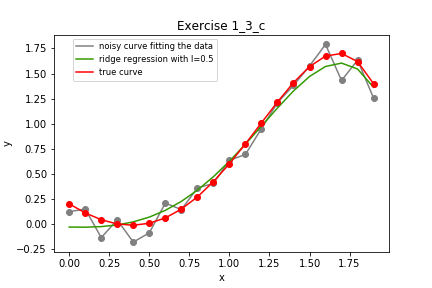
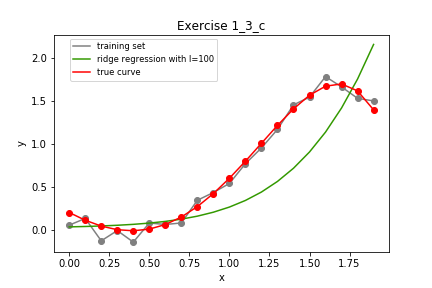
better code. Fixed 12
better code. Fixed 12

diff --git a/exercise1_3.py b/exercise1_3.py
@@ -1,6 +1,7 @@
 import numpy 
 import matplotlib.pyplot as plt 
 import random
+import os
 
 def print_figure(figure_name):
     
@@ -19,7 +20,8 @@ def ridge_regression(X, Y, l):
     theta = numpy.dot(numpy.dot(numpy.linalg.inv(XX_transpose + l*numpy.identity(XX_transpose.__len__())), numpy.transpose(X)), Y) 
     return theta
 
-def exercise1_3(N, test, L_list, mu, sigma_square, theta_0):
+def exercise1_3(N, N_test, l_list, mu, sigma_square, theta_0):
+    
     N_points = numpy.arange(0, 2, 2/float(N))
     
     X = []
@@ -29,28 +31,25 @@ def exercise1_3(N, test, L_list, mu, sigma_square, theta_0):
 
     Y_true = numpy.dot(X, theta_0)
 
-    Y_0 = numpy.dot(X, theta_0) + numpy.random.normal(mu, sigma_square, X.__len__())
-
-    for i in range(0, L_list.__len__()):
-
-        theta = ridge_regression(X, Y_0, L_list[i])
-       
-        Y_ridge = numpy.dot(X, theta)
-       
-        X_test = []
+    Y_training = numpy.dot(X, theta_0) + numpy.random.normal(mu, sigma_square, X.__len__())
+    
+    X_test = []
         
-        for m in range(0, test):
-            x = random.choice(N_points)
-            X_test.append([1, x, x**2, x**3, x**4, x**5])
-    
-        Y_0_test = numpy.dot(X_test, theta_0) + numpy.random.normal(mu, sigma_square, X_test.__len__())
-    
+    for i in range(0, N_test):
+        x = random.uniform(0, 2)
+        X_test.append([1, x, x**2, x**3, x**4, x**5])
+        
+    Y_training_test = numpy.dot(X_test, theta_0) + numpy.random.normal(mu, sigma_square, X_test.__len__())
+
+    for i in range(0, l_list.__len__()):
+
+        theta = ridge_regression(X, Y_training, l_list[i])
+        Y_ridge_regression = numpy.dot(X, theta)
         Y_test = numpy.dot(X_test, theta)
-        
     
         #find mean square error
-        mse1 = sum((Y_0 - Y_ridge)**2)/20
-        mse2 = sum((Y_test - Y_0_test)**2)/1000
+        mse1 = sum((Y_training - Y_ridge_regression)**2)/N
+        mse2 = sum((Y_training_test - Y_test)**2)/N_test
     
         print(mse1)
         print(mse2)
@@ -58,9 +57,9 @@ def exercise1_3(N, test, L_list, mu, sigma_square, theta_0):
         plt.title('Exercise 1_3_' + chr(ord('`') + (i + 1)))
         plt.xlabel('x')
         plt.ylabel('y')
-        plt.plot(N_points, Y_0, label='noisy curve fitting the data', color='grey')
-        plt.plot(N_points, Y_0, 'o', color='grey')
-        plt.plot(N_points, Y_ridge, label='ridge regression with l=' + str(+L_list[i]), color='#339900')
+        plt.plot(N_points, Y_training, label='training set', color='grey')
+        plt.plot(N_points, Y_training, 'o', color='grey')
+        plt.plot(N_points, Y_ridge_regression, label='ridge regression with l=' + str(+l_list[i]), color='#339900')
         plt.plot(N_points, Y_true, label='true curve', color='red')
         plt.plot(N_points, Y_true, 'o', color='red')
     
@@ -71,6 +70,6 @@ def exercise1_3(N, test, L_list, mu, sigma_square, theta_0):
 
 
 
-exercise1_3(20, 1000, [0.2,0.005, 0.5], 0, 0.1, [0.2, -1, 0.9, 0.7, 0, -0.2])
+exercise1_3(20, 1000, [0.000006, 0.1, 100], 0, 0.1, [0.2, -1, 0.9, 0.7, 0, -0.2])
 
 

diff --git a/exercise1_2.py b/exercise1_2.py
@@ -1,8 +1,9 @@
 import numpy 
 import matplotlib.pyplot as plt 
 import random
+import os
 
-#79-81
+#check page 79-81 for report
 
 def column(matrix, i):
     return [row[i] for row in matrix]
@@ -27,7 +28,7 @@ def exercise1_2(N, test, experiments, mu, sigma_square, theta_0):
     #Generate N equidistant value points in the interval [0, N]
     N_points = numpy.arange(0, 2, 2/float(N))
     
-    #create X using the N points in the interval [0, N] and do regression using 5th degree pol
+    #create X using the N points in the interval [0, N] 
     X = []
     for i in range(0, N):
         x = N_points[i]
@@ -36,7 +37,7 @@ def exercise1_2(N, test, experiments, mu, sigma_square, theta_0):
     #get true Y
     Y_true = numpy.dot(X, theta_0)
 
-    #create X_2 using the N points in the interval [0, N] and do regression using 2th degree pol for 100 times
+    #create X_2 using the N points in the interval [0, N] 
     X_2 = []
     for i in range(0, 20):
         x = N_points[i]
@@ -49,9 +50,9 @@ def exercise1_2(N, test, experiments, mu, sigma_square, theta_0):
         Y_2.append(numpy.dot(X_2, least_squares(X_2, Y_noisy)))
 
     Y_avg2 = numpy.average(Y_2, axis=0)
-    Y_var2 = numpy.var(Y_2, axis=0)
+    Y_var2 = numpy.std(Y_2, axis = 0)
 
-    #create X_10 using the N points in the interval [0, N] and do regression using 10th degree pol for 100 times
+    #create X_10 using the N points in the interval [0, N] 
     X_10 = []
     for i in range(0, 20):
         x = N_points[i]
@@ -64,30 +65,18 @@ def exercise1_2(N, test, experiments, mu, sigma_square, theta_0):
         Y_10.append(numpy.dot(X_10, least_squares(X_10, Y_noisy)))
 
     Y_avg10 = numpy.average(Y_10, axis = 0)
-    Y_var10 = numpy.var(Y_10, axis = 0)
+    Y_var10 = numpy.std(Y_10, axis = 0)
+    
+    print(Y_var10)
 
     plt.title('Exercise 1_2')
     plt.xlabel('x')
     plt.ylabel('y')
-    plt.plot(N_points, Y_2[20], color='#000040')
-    plt.plot(N_points, Y_2[40], color='#000060')
-    plt.plot(N_points, Y_2[60], color='#000080')
-    plt.plot(N_points, Y_2[80], color='#0000A0')
-    plt.plot(N_points, Y_2[99], color='#0033FF')
 
     plt.plot(N_points, Y_avg2, label='average Y 2nd degree pol', color='#000099')
-    plt.plot(N_points, Y_avg2, 'o', color='#000099')
-    plt.errorbar(N_points, Y_avg2, yerr=Y_var2, fmt='.k')
-
-
-    plt.plot(N_points, Y_10[20], color='#006800')
-    plt.plot(N_points, Y_10[40], color='#008800')
-    plt.plot(N_points, Y_10[60], color='#00A000')
-    plt.plot(N_points, Y_10[80], color='#00D800')
-    plt.plot(N_points, Y_10[99], color='#00FF00')
+    plt.errorbar(N_points, Y_avg2, yerr=Y_var2, fmt='.k', label='standard deviation from the mean')
 
     plt.plot(N_points, Y_avg10, label='average Y 10th degree pol', color='#005800')
-    plt.plot(N_points, Y_avg10, 'o', color='#005800')
     plt.errorbar(N_points, Y_avg10, yerr=Y_var10, fmt='.k')
 
     plt.plot(N_points, Y_true, label='true curve', color='red')

diff --git a/exercise1_1.py b/exercise1_1.py
@@ -1,6 +1,7 @@
 import numpy 
 import matplotlib.pyplot as plt 
 import random
+import os
 
 def print_figure(figure_name):
     
@@ -20,10 +21,11 @@ def least_squares(X, Y):
 
 
 def exercise1_1(N, test, mu, sigma_square, theta_0):
+    
     #Generate N equidistant value points in the interval [0, N]
     N_points = numpy.arange(0, 2, 2/float(N))
     
-    #create X using the N points in the interval [0, N]
+    #create N X training points in the interval [0, N]
     X = []
     for i in range(0, N):
         x = N_points[i]
@@ -31,27 +33,27 @@ def exercise1_1(N, test, mu, sigma_square, theta_0):
 
     Y_true = numpy.dot(X, theta_0)
 
-    #find Y by multiplying X with theta_0 and adding gaussian eta
-    Y_0 = numpy.dot(X, theta_0) + numpy.random.normal(mu, sigma_square, X.__len__())
+    #find Y of the training set by multiplying X with theta_0 and adding gaussian eta
+    Y_training = numpy.dot(X, theta_0) + numpy.random.normal(mu, sigma_square, X.__len__())
 
-    #find the theta using least squares, that is find the regression line using the 20 points and Y
-    theta = least_squares(X, Y_0)
+    #find the theta using the training set
+    theta = least_squares(X, Y_training)
 
-    Y_least = numpy.dot(X, theta)
+    Y_least_squares = numpy.dot(X, theta)
 
-    #create a test set and correspondent Y
+    #create a test set and correspondent Y of 1000 points randomly selected in the interval [0,2]
     X_test = []
     for i in range(0, test):
-        x = random.choice(N_points)
+        x = random.uniform(0, 2)
         X_test.append([1, x, x**2, x**3, x**4, x**5])
 
     #find the Y_test
-    Y_0_test = numpy.dot(X_test, theta_0) + numpy.random.normal(mu, sigma_square, X_test.__len__())
+    Y_training_test = numpy.dot(X_test, theta_0) + numpy.random.normal(mu, sigma_square, X_test.__len__())
     Y_test = numpy.dot(X_test, theta)
 
     #find mean square error
-    mse1 = sum((Y_0 - Y_least)**2)/20
-    mse2 = sum((Y_test - Y_0_test)**2)/1000
+    mse1 = sum((Y_training - Y_least_squares)**2)/N
+    mse2 = sum((Y_training_test - Y_test)**2)/test
 
     plt.plot(0,label='mse1='+str(mse1), color='white')
     plt.plot(0,label='mse2='+str(mse2), color='white')
@@ -59,9 +61,9 @@ def exercise1_1(N, test, mu, sigma_square, theta_0):
     plt.title('Exercise 1_1')
     plt.xlabel('x')
     plt.ylabel('y')
-    plt.plot(N_points, Y_0, label='noisy curve fitting the data', color='grey')
-    plt.plot(N_points, Y_0, 'o', color='grey')
-    plt.plot(N_points, Y_least, label='least squares regression', color='blue')
+    plt.plot(N_points, Y_training, label='training set', color='grey')
+    plt.plot(N_points, Y_training, 'o', color='grey')
+    plt.plot(N_points, Y_least_squares, label='least squares regression', color='blue')
     plt.plot(N_points, Y_true, label='true curve', color='red')
     plt.plot(N_points, Y_true, 'o', color='red')
 

diff --git a/exercise1_6.py b/exercise1_6.py
@@ -1,6 +1,7 @@
 import numpy 
 import matplotlib.pyplot as plt 
 import random
+import os
 
 def column(matrix, i):
     return [row[i] for row in matrix]
@@ -55,9 +56,9 @@ def exercise1_6(N, sigma2_n, convergence, theta_0):
 
     Y_true = numpy.dot(X, theta_0)
     
-    Y_biased = numpy.dot(X, theta_0) + numpy.random.normal(0, sigma2_n, X.__len__())
+    Y_training = numpy.dot(X, theta_0) + numpy.random.normal(0, sigma2_n, X.__len__())
     
-    result = expectation_maximization(X, Y_biased, theta_0.__len__(), N, convergence)
+    result = expectation_maximization(X, Y_training, theta_0.__len__(), N, convergence)
       
     sigma_0 = result[0]
     mu_0 = result[1]

diff --git a/exercise1_4.py b/exercise1_4.py
@@ -1,6 +1,7 @@
 import numpy 
 import matplotlib.pyplot as plt 
 import random
+import os
 
 #check page 591 for report
 
@@ -78,14 +79,10 @@ def exercise1_4(N, sigma2_0, sigma2_n_list, theta_0):
         plt.xlabel('x')
         plt.ylabel('y')
         plt.plot(N_points, Y_true, label='true curve', color='red')
-                
         plt.plot(column(X, 1), mean_y, label='mean curve fitting the data', color='grey')
         plt.errorbar(column(X, 1), mean_y, yerr=variance_y, fmt='.k')
-        
         plt.legend(bbox_to_anchor=(0.42, 1.0), fontsize='small')
-    
         print_figure("exercise1_4_" + chr(ord('`') + (i + 1)))
-
         plt.show()
     
 

diff --git a/exercise1_5.py b/exercise1_5.py
@@ -1,6 +1,7 @@
 import numpy 
 import matplotlib.pyplot as plt 
 import random
+import os
 
 def column(matrix, i):
     return [row[i] for row in matrix]
